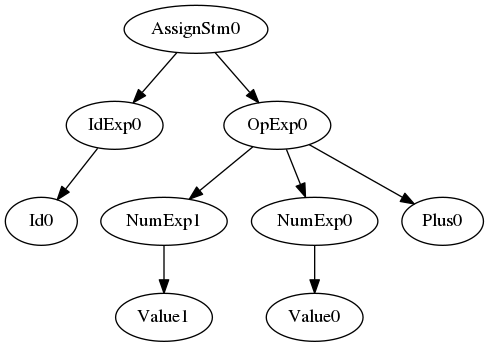
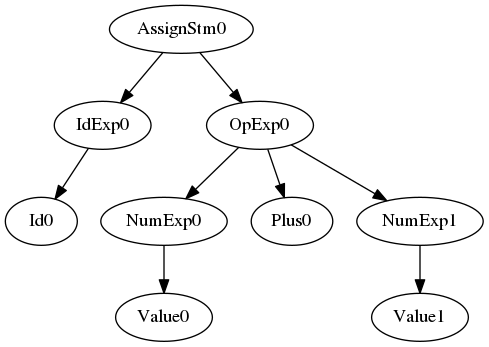
Ordering of sibling nodes implemented

diff --git a/homework1/src/PrintVisitor.cpp b/homework1/src/PrintVisitor.cpp
@@ -35,6 +35,7 @@ std::string CPrintVisitor::toString( const TOperandType& type ) const {
 std::string CPrintVisitor::GetTraversalInDotLanguage() const {
     std::stringstream sstream;
     sstream << "digraph {" << std::endl;
+    sstream << '\t' << "ordering = out;" << std::endl;
     for ( auto it = treeEdges.begin(); it != treeEdges.end(); ++it ) {
         const std::string& fromNode = it->first;
         for ( const std::string& toNode : it->second ) {
